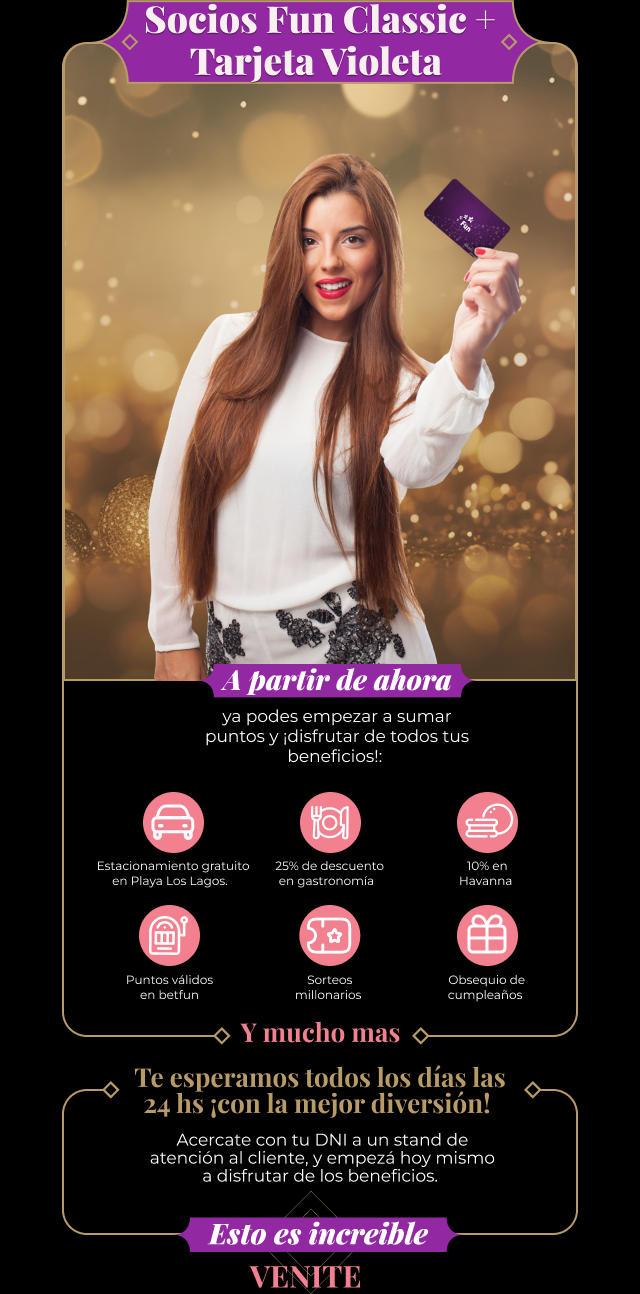
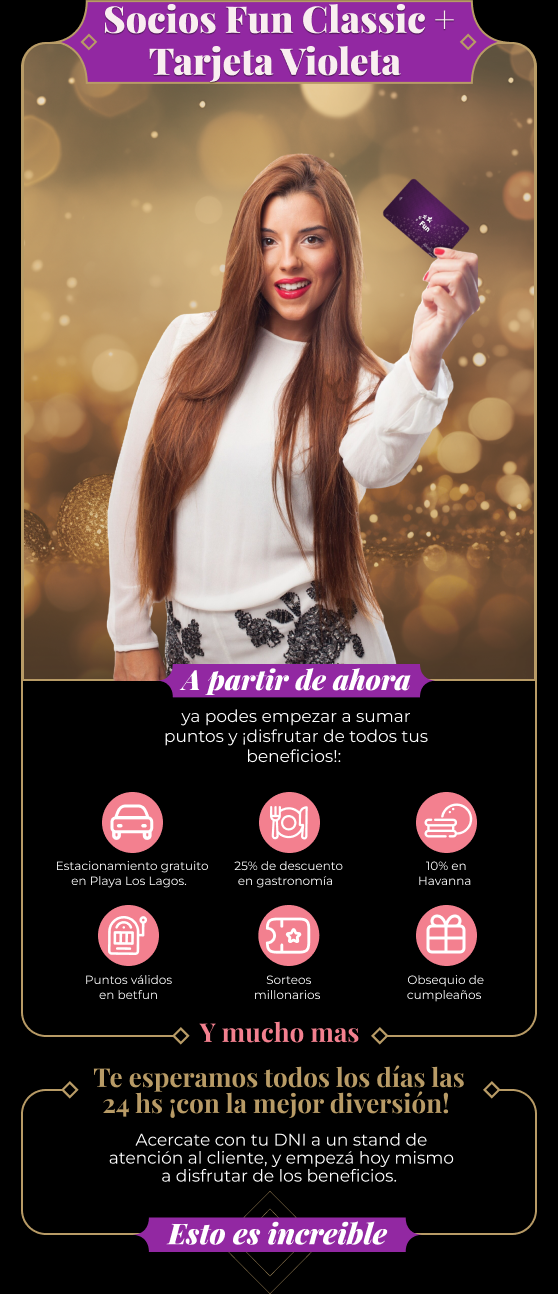
ultimos cambios del proyecto

diff --git a/css/style.css b/css/style.css
@@ -130,6 +130,9 @@
       font-size: 12px;
       text-align: center;
     }
+    .responsive-img {
+      width: 100%;
+    }
   }
   
   /* Mobile */
